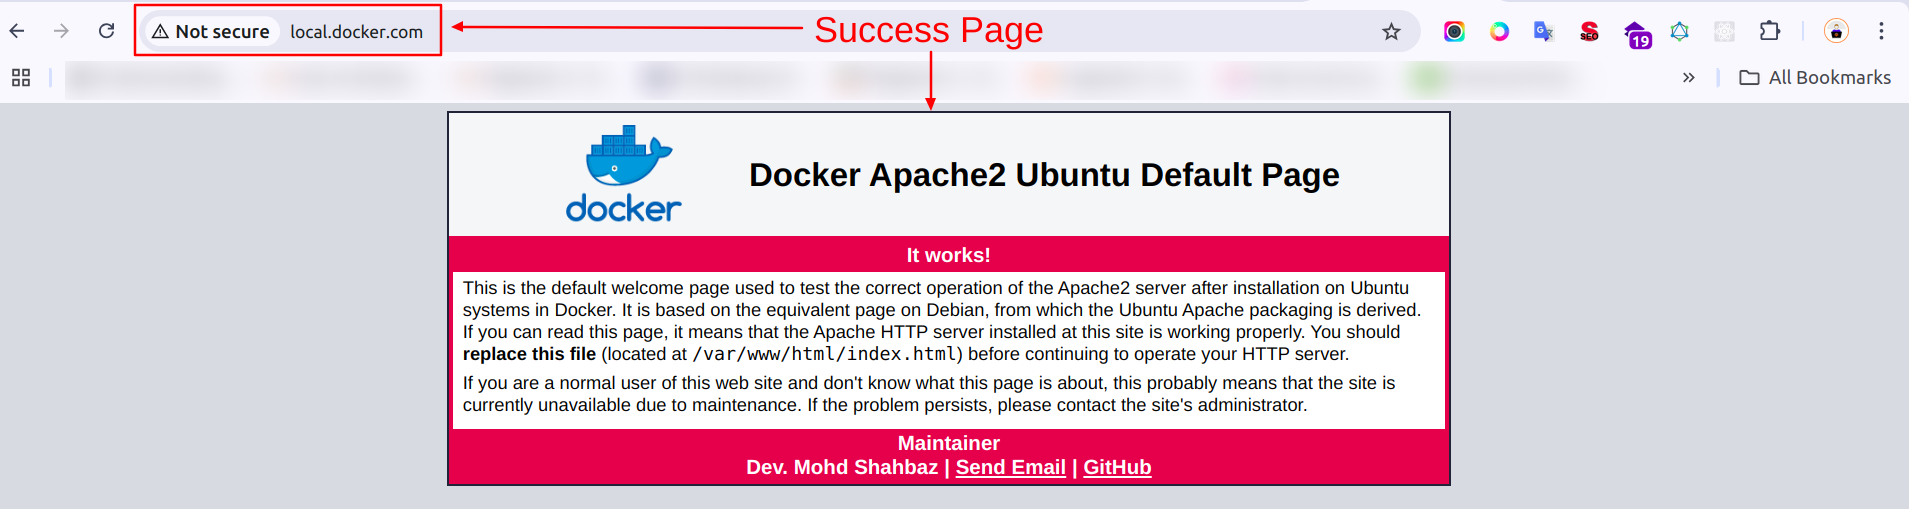
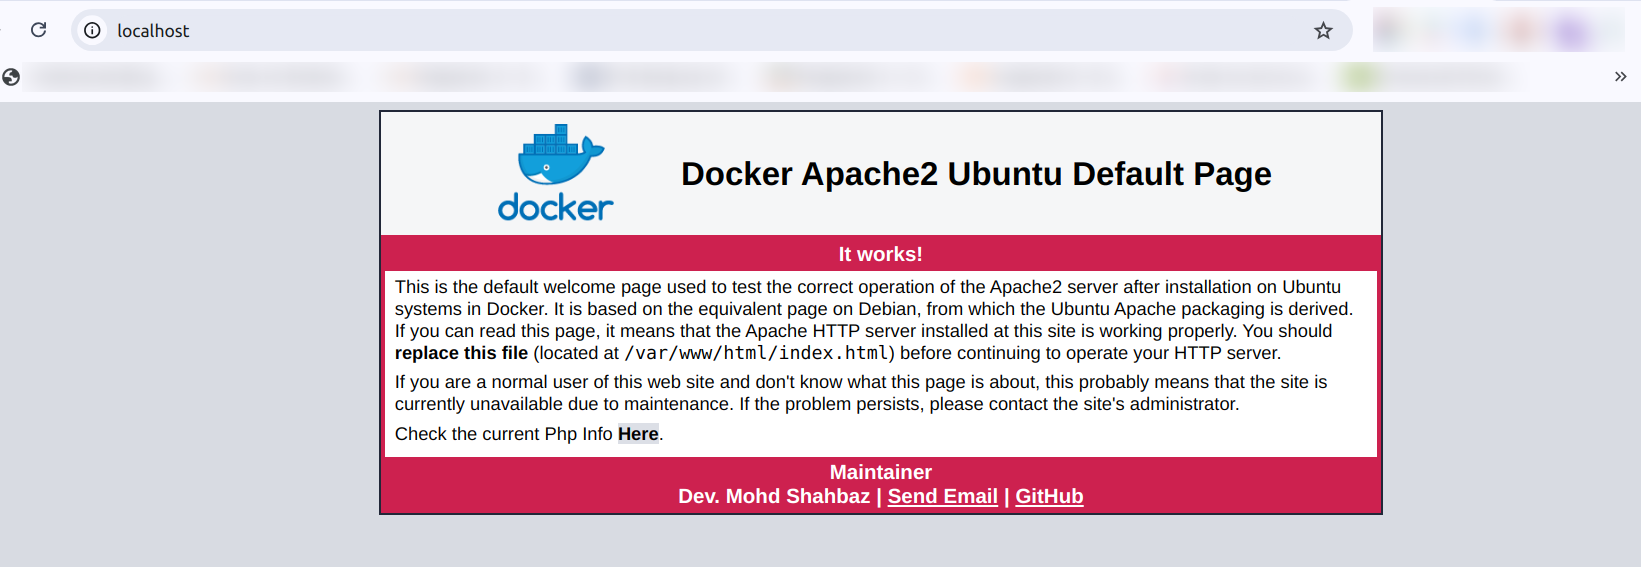
[EMPROVEMENT]:added sh file for the docker commands

diff --git a/src/index.html b/src/index.html
@@ -210,6 +210,9 @@
                 maintenance.
                 If the problem persists, please contact the site's administrator.
           </p>
+          <p>
+                Check the current Php Info <a href="phpinfo.php" target="_blank">Here</a>.
+          </p>
 
         </div>
       </div>

diff --git a/README.md b/README.md
@@ -91,19 +91,15 @@ sudo chmod -R 755 .docker/
 
 - Go to the above directory an Run Command : 
     ```bash
-    bash docker-setup.sh
+    bash docker-init
     ```
 - Build the Docker images:  
    ```bash
-   docker-compose build
-    ```
-- Start the Docker containers in detached mode:
-    ```bash
-    docker-compose up -d
+   bash docker-start
     ```
 - Verify that the containers are running:
     ```bash
-    docker ps
+    bash docker-ps
     ```
 - Add the following entry to your /etc/hosts file and save it:
     ```bash
@@ -111,11 +107,15 @@ sudo chmod -R 755 .docker/
     ``` 
 - Restart the Docker containers:
     ```bash
-    docker-compose restart
+    bash docker-restart
     ```  
+- Stop the Docker containers:
+    ```bash
+    bash docker-stop
+    ```
 - Accessing the Docker Container, To access the webserver container's shell as the `jarvis` user:
    ```bash
-   docker-compose exec webserver su jarvis
+   bash docker-inside
    ```
   
 - Access **Apache WebServer :** http://localhost/
